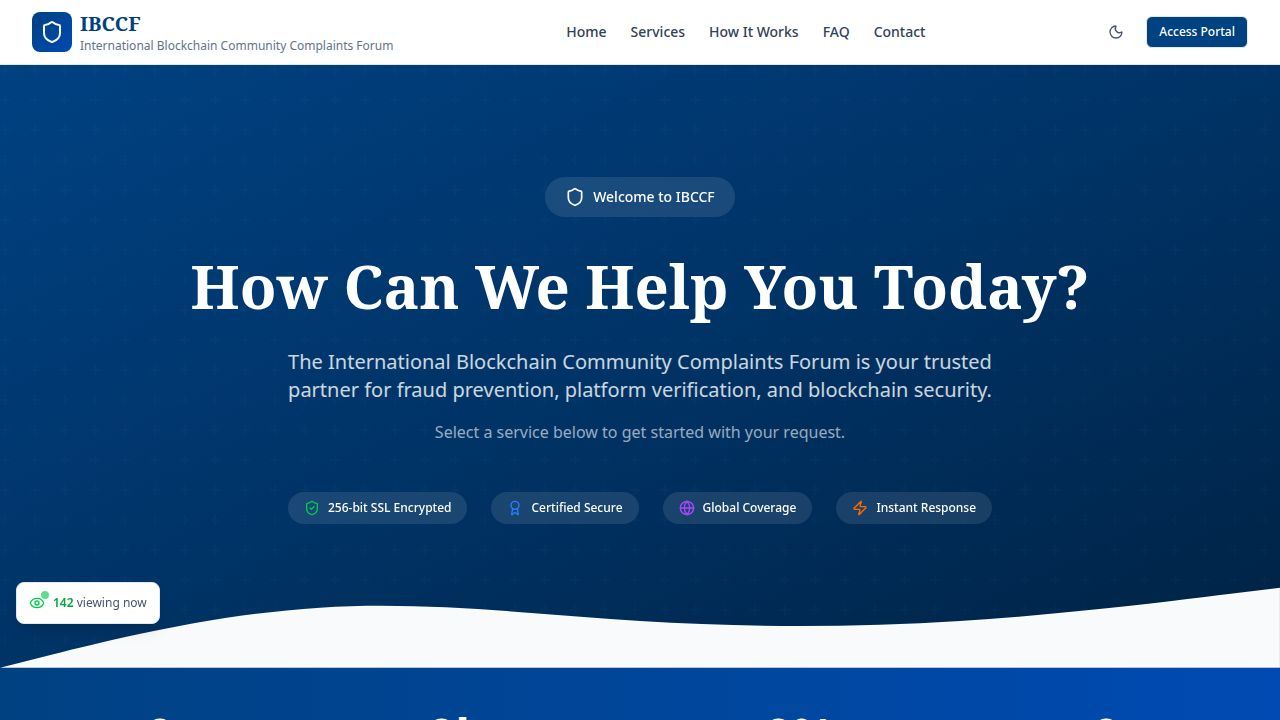
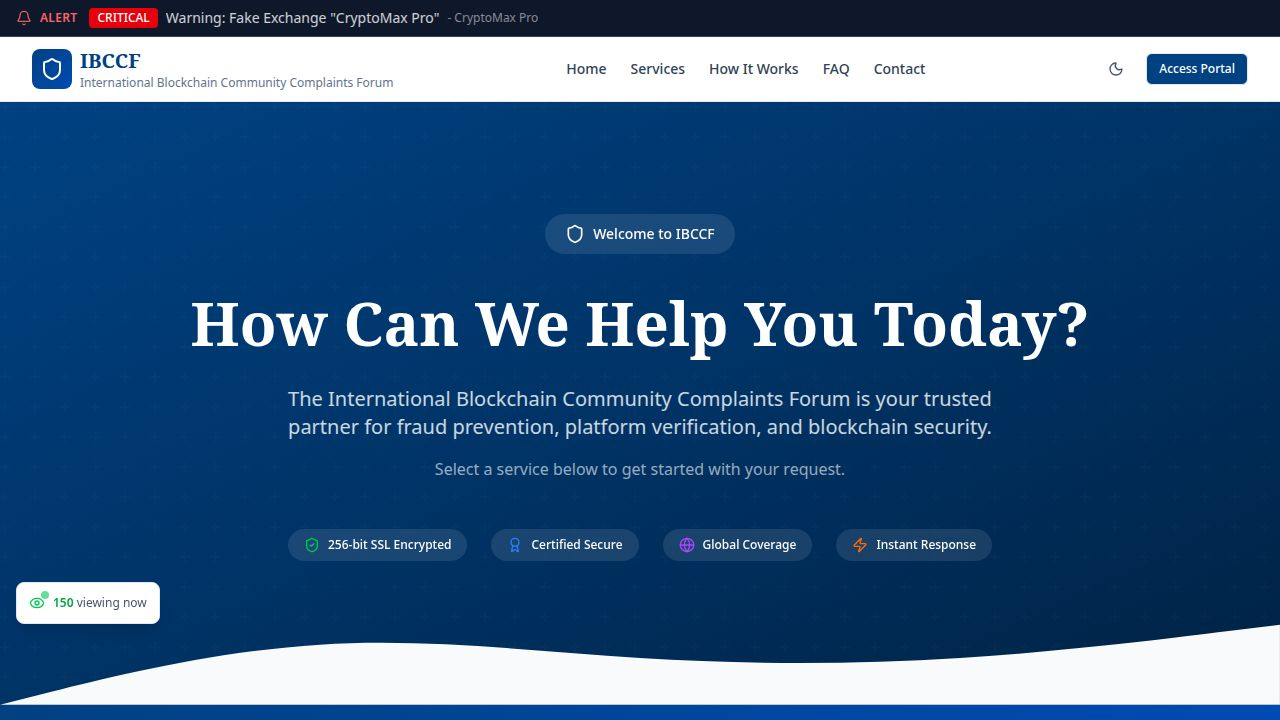
Add PIN-based login and case management functionality
Implements three new API endpoints in `server/routes/cases.ts`: `/verify-access-code`, `/set-pin`, and `/login-pin`. Adds a `userPin` field to the `cases` table in `shared/schema.ts` and the `getCaseByPin` method to `server/storage.ts` to support PIN verification and login. Includes PIN hashing using SHA256.

Replit-Commit-Author: Agent
Replit-Commit-Session-Id: 40e57ec8-4a15-47d4-b9fc-ae623ab534ed
Replit-Commit-Checkpoint-Type: intermediate_checkpoint
Replit-Commit-Event-Id: c28b7914-85da-400d-95c6-2c66da7c89e7
Replit-Commit-Screenshot-Url: https://storage.googleapis.com/screenshot-production-us-central1/495b1757-5e17-45a4-abce-53cf3f036d95/40e57ec8-4a15-47d4-b9fc-ae623ab534ed/4VH53Lj

diff --git a/server/routes/cases.ts b/server/routes/cases.ts
@@ -4,6 +4,11 @@ import { caseService } from "../services";
 import { updateCaseSchema, updateCaseLetterSchema } from "@shared/schema";
 import { z } from "zod";
 import { checkAdminAuth } from "./middleware";
+import { createHash } from "crypto";
+
+function hashPin(pin: string): string {
+  return createHash('sha256').update(pin + 'IBCCF_PIN_SALT').digest('hex');
+}
 
 export const casesRouter = Router();
 
@@ -236,5 +241,101 @@ casesRouter.delete("/:caseId/notes/:noteId", checkAdminAuth, async (req, res) =>
     res.json({ success: true });
   } catch (error) {
     res.status(500).json({ error: "Failed to delete note" });
+  }
+});
+
+// Verify access code and check if PIN is already set
+casesRouter.post("/verify-access-code", async (req, res) => {
+  try {
+    const { accessCode } = z.object({ accessCode: z.string().min(1) }).parse(req.body);
+    
+    const caseData = await caseService.getCaseByAccessCode(accessCode);
+    if (!caseData) {
+      res.status(404).json({ error: "Invalid access code" });
+      return;
+    }
+    
+    res.json({
+      valid: true,
+      caseId: caseData.id,
+      hasPinSet: !!caseData.userPin,
+      userName: caseData.userName
+    });
+  } catch (error) {
+    if (error instanceof z.ZodError) {
+      res.status(400).json({ error: "Access code is required" });
+    } else {
+      res.status(500).json({ error: "Failed to verify access code" });
+    }
+  }
+});
+
+// Set user's 6-digit PIN after verifying access code
+casesRouter.post("/set-pin", async (req, res) => {
+  try {
+    const { accessCode, pin } = z.object({
+      accessCode: z.string().min(1),
+      pin: z.string().length(6).regex(/^\d{6}$/, "PIN must be 6 digits")
+    }).parse(req.body);
+    
+    const caseData = await caseService.getCaseByAccessCode(accessCode);
+    if (!caseData) {
+      res.status(404).json({ error: "Invalid access code" });
+      return;
+    }
+    
+    if (caseData.userPin) {
+      res.status(400).json({ error: "PIN already set for this case" });
+      return;
+    }
+    
+    const hashedPin = hashPin(pin);
+    const updated = await caseService.updateCase(caseData.id, { userPin: hashedPin });
+    
+    if (!updated) {
+      res.status(500).json({ error: "Failed to set PIN" });
+      return;
+    }
+    
+    res.json({
+      success: true,
+      message: "PIN set successfully",
+      caseId: caseData.id
+    });
+  } catch (error) {
+    if (error instanceof z.ZodError) {
+      res.status(400).json({ error: error.errors[0]?.message || "Invalid input" });
+    } else {
+      res.status(500).json({ error: "Failed to set PIN" });
+    }
+  }
+});
+
+// Login with 6-digit PIN
+casesRouter.post("/login-pin", async (req, res) => {
+  try {
+    const { pin } = z.object({
+      pin: z.string().length(6).regex(/^\d{6}$/, "PIN must be 6 digits")
+    }).parse(req.body);
+    
+    const hashedPin = hashPin(pin);
+    const caseData = await storage.getCaseByPin(hashedPin);
+    
+    if (!caseData) {
+      res.status(401).json({ error: "Invalid PIN" });
+      return;
+    }
+    
+    res.json({
+      success: true,
+      id: caseData.id,
+      accessCode: caseData.accessCode
+    });
+  } catch (error) {
+    if (error instanceof z.ZodError) {
+      res.status(400).json({ error: "PIN must be 6 digits" });
+    } else {
+      res.status(500).json({ error: "Failed to login" });
+    }
   }
 });

diff --git a/server/storage.ts b/server/storage.ts
@@ -34,6 +34,7 @@ export interface IStorage {
   createCase(data: InsertCase): Promise<Case>;
   getCaseById(id: string): Promise<Case | undefined>;
   getCaseByAccessCode(accessCode: string): Promise<Case | undefined>;
+  getCaseByPin(hashedPin: string): Promise<Case | undefined>;
   getAllCases(): Promise<Case[]>;
   updateCase(id: string, data: UpdateCase): Promise<Case | undefined>;
   deleteCase(id: string): Promise<void>;
@@ -216,6 +217,11 @@ export class DatabaseStorage implements IStorage {
 
   async getCaseByAccessCode(accessCode: string): Promise<Case | undefined> {
     const [caseData] = await db.select().from(cases).where(eq(cases.accessCode, accessCode));
+    return caseData;
+  }
+
+  async getCaseByPin(hashedPin: string): Promise<Case | undefined> {
+    const [caseData] = await db.select().from(cases).where(eq(cases.userPin, hashedPin));
     return caseData;
   }
 

diff --git a/shared/schema.ts b/shared/schema.ts
@@ -63,6 +63,9 @@ export const cases = pgTable("cases", {
   // Simplified submission URL approach
   submissionUrl: text("submission_url"), // External URL where user submits their request
   
+  // User's personal 6-digit PIN (set by user after verifying admin-provided access code)
+  userPin: text("user_pin"), // 6-digit PIN for future logins
+  
   createdAt: timestamp("created_at").notNull().default(sql`now()`),
   updatedAt: timestamp("updated_at").notNull().default(sql`now()`),
 });